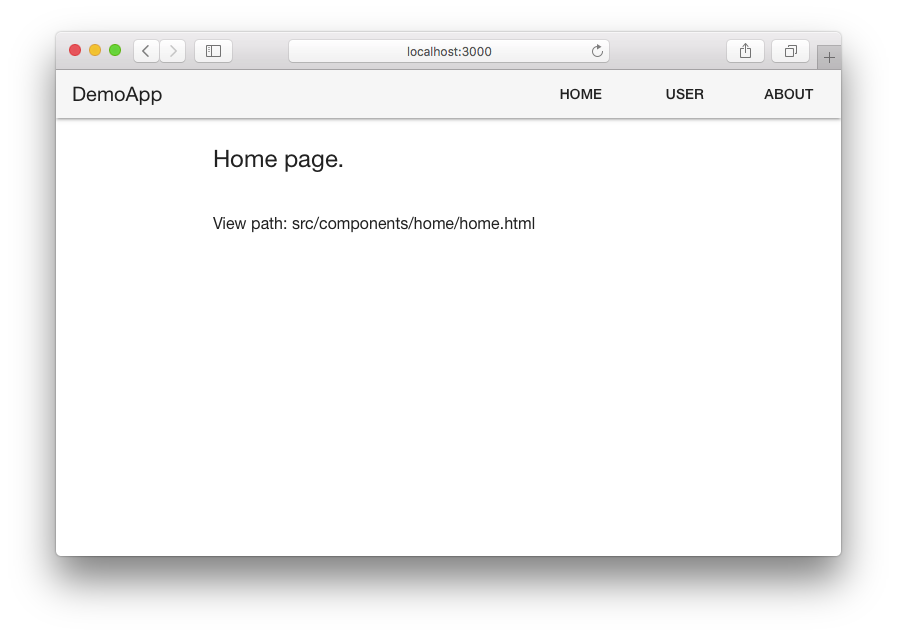
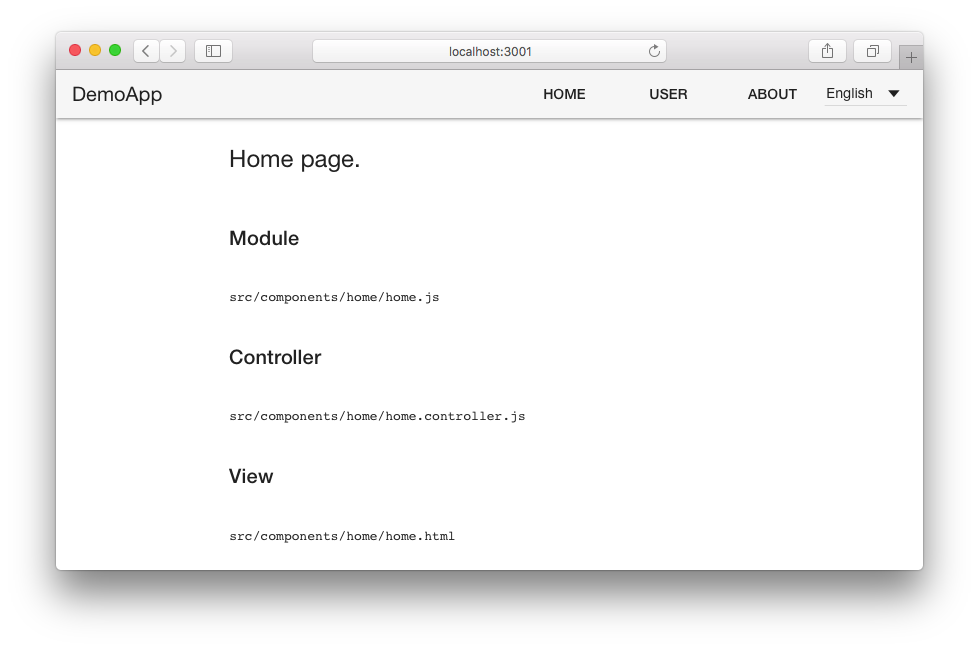
update readme and screenshots

diff --git a/README.md b/README.md
@@ -1,9 +1,10 @@
 # Angular ES2015 DemoApp
 
-> An angular ES2015 demo application using angular, ui-router and material.
+> An Angular ES2015 demo application using Angular, AngularUI Router, Angular Translate and Angular Material.
 
 - Angular
 - AngularUI Router
+- Angular Translate
 - Angular Material
 - Webpack
 - Babel
